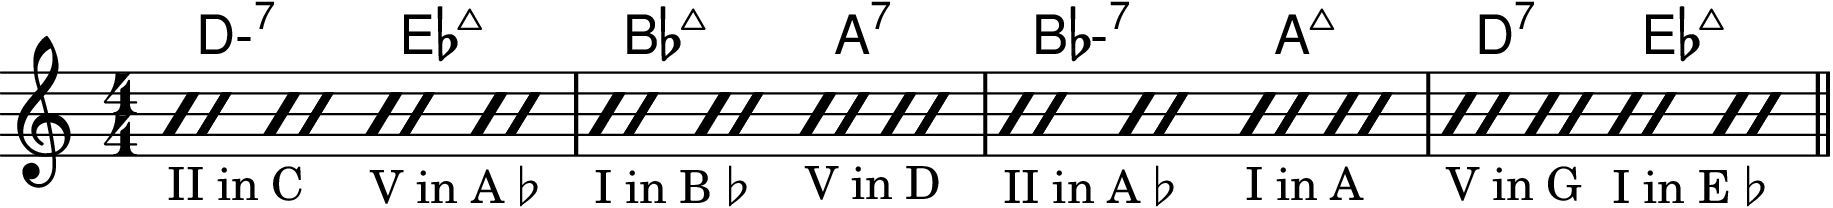
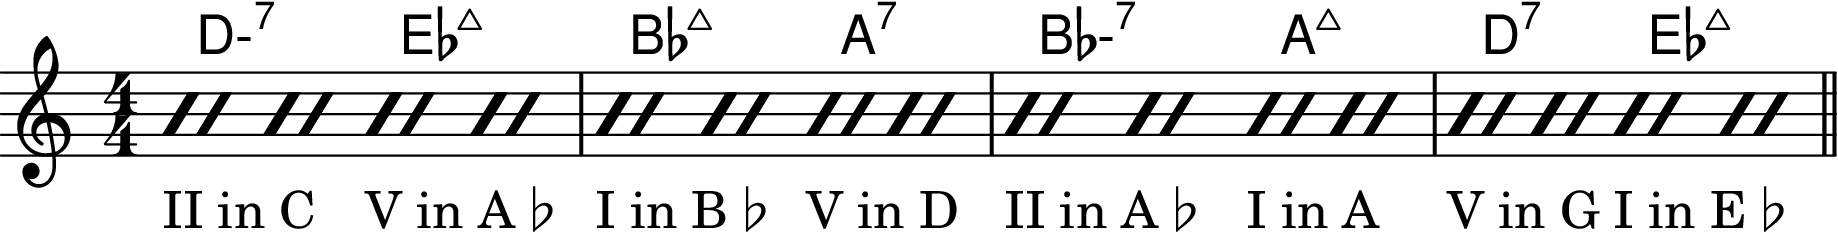
Tweak existing figures
Also `make distclean all` to recreate all output

diff --git a/docs/index.html b/docs/index.html
@@ -289,7 +289,7 @@
       <p><midi-player src="./figure2-14.midi" sound-font />
       </details>
 <details><summary>Figure 2-15</summary>
-      <p><img src="./figure2-15.cropped.png" name="Figure 2-15" style="width: 916.5px; height: 104.0px;"/>
+      <p><img src="./figure2-15.cropped.png" name="Figure 2-15" style="width: 919.0px; height: 116.5px;"/>
       <p><midi-player src="./figure2-15.midi" sound-font />
       </details>
 <details><summary>Figure 2-16</summary>
@@ -305,7 +305,7 @@
       <p><midi-player src="./figure2-18.midi" sound-font />
       </details>
 <details><summary>Figure 2-19</summary>
-      <p><img src="./figure2-19.cropped.png" name="Figure 2-19" style="width: 496.0px; height: 212.5px;"/>
+      <p><img src="./figure2-19.cropped.png" name="Figure 2-19" style="width: 481.5px; height: 212.5px;"/>
       <p><midi-player src="./figure2-19.midi" sound-font />
       </details>
 <details><summary>Figure 2-21</summary>
